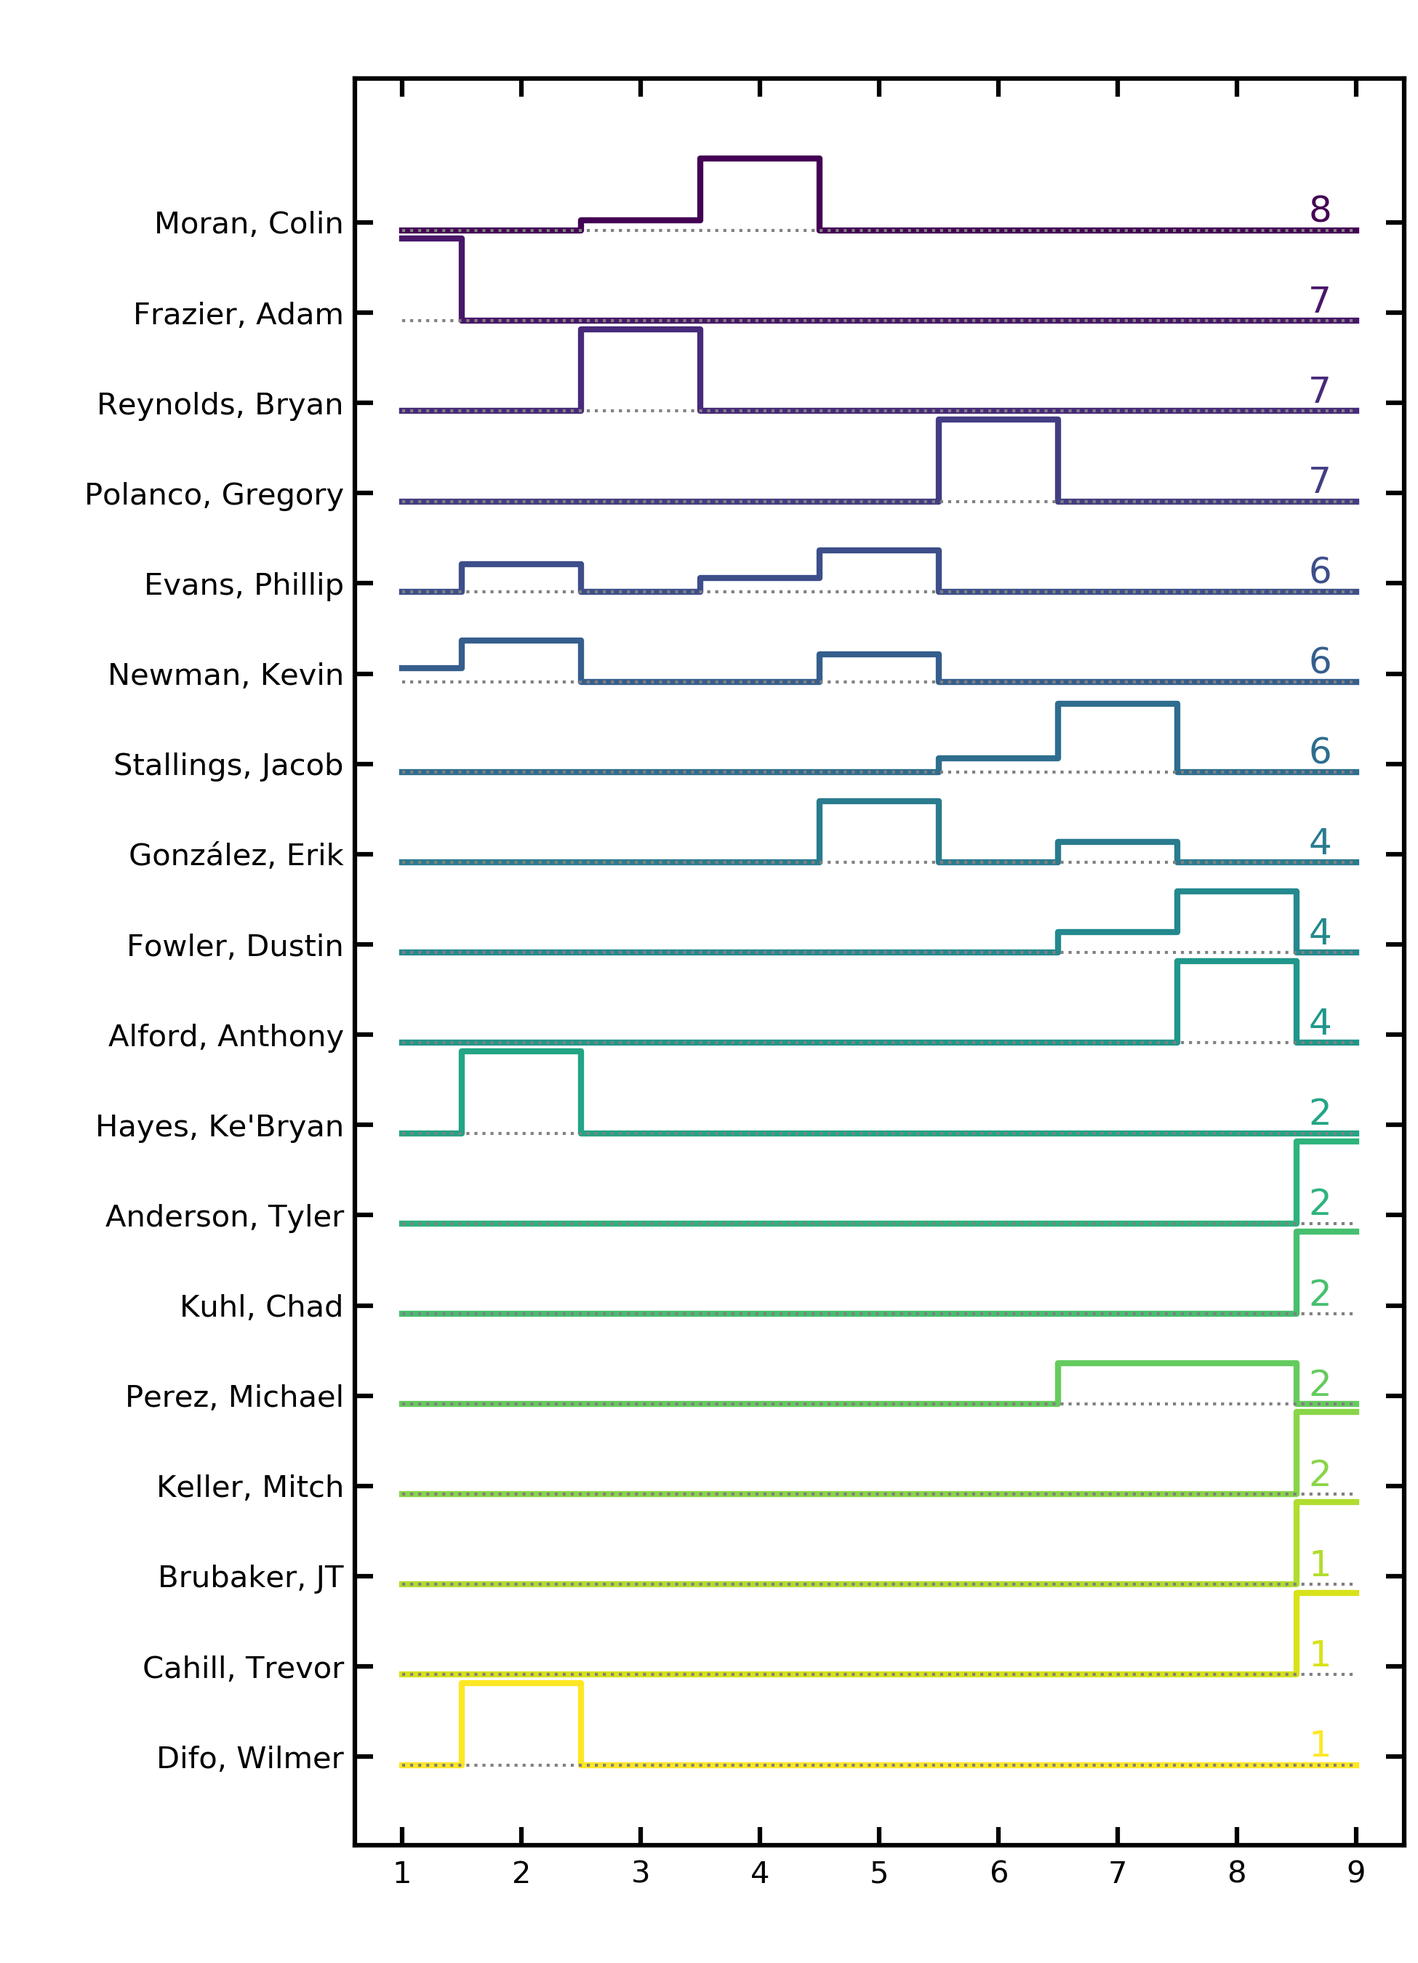
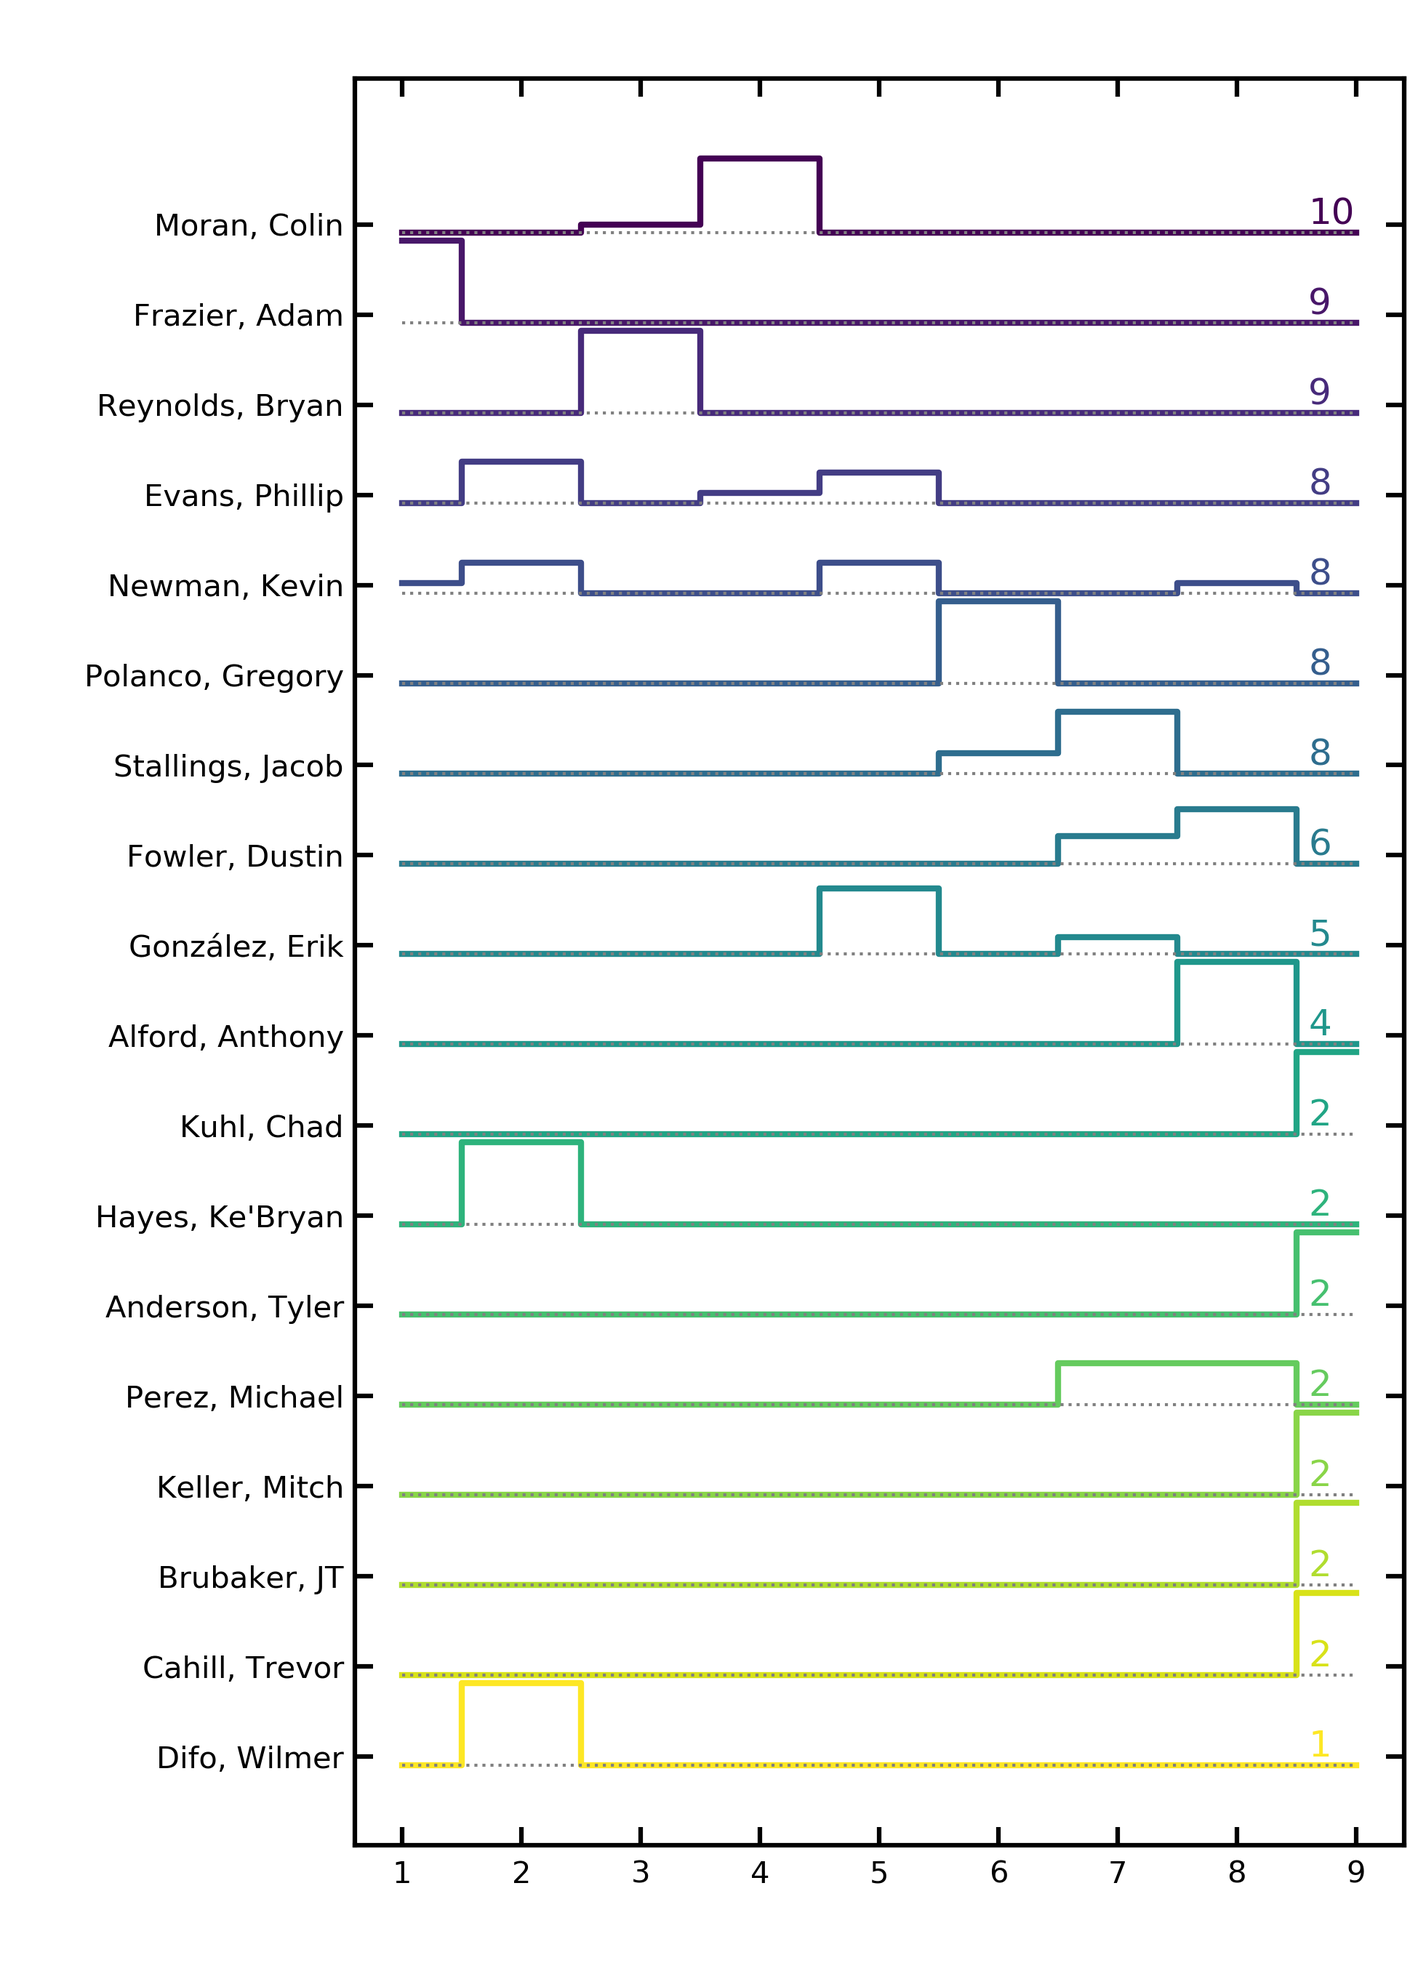
update order lists

diff --git a/Lineups/lineup2021.html b/Lineups/lineup2021.html
@@ -12,36 +12,36 @@
   <p>For each team, what is the "typical" 2021 lineup?</p>
 <table id="customers">
 <tr><th>Team</th><th>1st</th><th>2nd</th><th>3rd</th><th>4th</th><th>5th</th><th>6th</th><th>7th</th><th>8th</th><th>9th</th><th>Similarity</th><th>First Appeared</th></tr>
-<tr><td><a href="figures/2021LAAorder.png">LAA</a></td><td>Fletcher, David</td><td>Ohtani, Shohei</td><td>Trout, Mike</td><td>Rendon, Anthony</td><td>Walsh, Jared</td><td>Upton, Justin</td><td>Iglesias, José</td><td>Suzuki, Kurt</td><td>Fowler, Dexter</td><td>5.44</td><td>3</td></tr>
-<tr><td><a href="figures/2021HOUorder.png">HOU</a></td><td>Altuve, Jose</td><td>Brantley, Michael</td><td>Bregman, Alex</td><td>Tucker, Kyle</td><td>Correa, Carlos</td><td>Alvarez, Yordan</td><td>Gurriel, Yuli</td><td>Straw, Myles</td><td>Maldonado, Martín</td><td>4.56</td><td>1</td></tr>
-<tr><td><a href="figures/2021OAKorder.png">OAK</a></td><td>Canha, Mark</td><td>Olson, Matt</td><td>Lowrie, Jed</td><td>Moreland, Mitch</td><td>Chapman, Matt</td><td>Piscotty, Stephen</td><td>Tom, Ka'ai</td><td>Andrus, Elvis</td><td>Garcia, Aramis</td><td>2.95</td><td>4</td></tr>
-<tr><td><a href="figures/2021TORorder.png">TOR</a></td><td>Semien, Marcus</td><td>Biggio, Cavan</td><td>Bichette, Bo</td><td>Hernández, Teoscar</td><td>Guerrero Jr., Vladimir</td><td>Gurriel Jr., Lourdes</td><td>Grichuk, Randal</td><td>Panik, Joe</td><td>Jansen, Danny</td><td>4.89</td><td>6</td></tr>
-<tr><td><a href="figures/2021ATLorder.png">ATL</a></td><td>Acuña Jr., Ronald</td><td>Albies, Ozzie</td><td>Freeman, Freddie</td><td>Ozuna, Marcell</td><td>d'Arnaud, Travis</td><td>Swanson, Dansby</td><td>Riley, Austin</td><td>Pache, Cristian</td><td>Anderson, Ian</td><td>5.62</td><td>3</td></tr>
-<tr><td><a href="figures/2021MILorder.png">MIL</a></td><td>Wong, Kolten</td><td>Hiura, Keston</td><td>Yelich, Christian</td><td>Shaw, Travis</td><td>Bradley Jr., Jackie</td><td>Cain, Lorenzo</td><td>Narváez, Omar</td><td>Urías, Luis</td><td>Burnes, Corbin</td><td>3.25</td><td>7</td></tr>
-<tr><td><a href="figures/2021STLorder.png">STL</a></td><td>Edman, Tommy</td><td>Goldschmidt, Paul</td><td>Arenado, Nolan</td><td>DeJong, Paul</td><td>O'Neill, Tyler</td><td>Molina, Yadier</td><td>Carlson, Dylan</td><td>Williams, Justin</td><td>Flaherty, Jack</td><td>4.69</td><td>1</td></tr>
-<tr><td><a href="figures/2021CHCorder.png">CHC</a></td><td>Happ, Ian</td><td>Contreras, Willson</td><td>Rizzo, Anthony</td><td>Bryant, Kris</td><td>Pederson, Joc</td><td>Báez, Javier</td><td>Heyward, Jason</td><td>Bote, David</td><td>Hendricks, Kyle</td><td>4.25</td><td>1</td></tr>
-<tr><td><a href="figures/2021ARIorder.png">ARI</a></td><td>Rojas, Josh</td><td>Marte, Ketel</td><td>Walker, Christian</td><td>Peralta, David</td><td>Cabrera, Asdrúbal</td><td>Escobar, Eduardo</td><td>Smith, Pavin</td><td>Vogt, Stephen</td><td>Bumgarner, Madison</td><td>3.67</td><td>1</td></tr>
-<tr><td><a href="figures/2021LADorder.png">LAD</a></td><td>Betts, Mookie</td><td>Seager, Corey</td><td>Turner, Justin</td><td>Bellinger, Cody</td><td>Muncy, Max</td><td>Taylor, Chris</td><td>Lux, Gavin</td><td>Barnes, Austin</td><td>Kershaw, Clayton</td><td>2.78</td><td>1</td></tr>
-<tr><td><a href="figures/2021SForder.png">SF</a></td><td>Slater, Austin</td><td>Yastrzemski, Mike</td><td>Solano, Donovan</td><td>Longoria, Evan</td><td>Ruf, Darin</td><td>Flores, Wilmer</td><td>Posey, Buster</td><td>Crawford, Brandon</td><td>Dubón, Mauricio</td><td>2.25</td><td>2</td></tr>
-<tr><td><a href="figures/2021CLEorder.png">CLE</a></td><td>Luplow, Jordan</td><td>Hernandez, Cesar</td><td>Ramírez, José</td><td>Rosario, Eddie</td><td>Reyes, Franmil</td><td>Naylor, Josh</td><td>Chang, Yu</td><td>Pérez, Roberto</td><td>Giménez, Andrés</td><td>5.57</td><td>1</td></tr>
-<tr><td><a href="figures/2021SEAorder.png">SEA</a></td><td>Haniger, Mitch</td><td>France, Ty</td><td>Seager, Kyle</td><td>White, Evan</td><td>Trammell, Taylor</td><td>Moore, Dylan</td><td>Fraley, Jake</td><td>Torrens, Luis</td><td>Crawford, J.P.</td><td>5.12</td><td>2</td></tr>
-<tr><td><a href="figures/2021MIAorder.png">MIA</a></td><td>Dickerson, Corey</td><td>Marte, Starling</td><td>Aguilar, Jesús</td><td>Cooper, Garrett</td><td>Anderson, Brian</td><td>Chisholm Jr., Jazz</td><td>Berti, Jon</td><td>Wallach, Chad</td><td>López, Pablo</td><td>3.38</td><td>6</td></tr>
+<tr><td><a href="figures/2021LAAorder.png">LAA</a></td><td>Fletcher, David</td><td>Ohtani, Shohei</td><td>Trout, Mike</td><td>Rendon, Anthony</td><td>Walsh, Jared</td><td>Upton, Justin</td><td>Iglesias, José</td><td>Suzuki, Kurt</td><td>Fowler, Dexter</td><td>5.15</td><td>3</td></tr>
+<tr><td><a href="figures/2021HOUorder.png">HOU</a></td><td>Altuve, Jose</td><td>Brantley, Michael</td><td>Bregman, Alex</td><td>Alvarez, Yordan</td><td>Correa, Carlos</td><td>Gurriel, Yuli</td><td>Tucker, Kyle</td><td>Straw, Myles</td><td>Maldonado, Martín</td><td>4.8</td><td>10</td></tr>
+<tr><td><a href="figures/2021OAKorder.png">OAK</a></td><td>Canha, Mark</td><td>Laureano, Ramón</td><td>Lowrie, Jed</td><td>Olson, Matt</td><td>Chapman, Matt</td><td>Piscotty, Stephen</td><td>Brown, Seth</td><td>Andrus, Elvis</td><td>Garcia, Aramis</td><td>2.91</td><td>9</td></tr>
+<tr><td><a href="figures/2021TORorder.png">TOR</a></td><td>Semien, Marcus</td><td>Biggio, Cavan</td><td>Bichette, Bo</td><td>Hernández, Teoscar</td><td>Guerrero Jr., Vladimir</td><td>Gurriel Jr., Lourdes</td><td>Tellez, Rowdy</td><td>Grichuk, Randal</td><td>Jansen, Danny</td><td>4.6</td><td>1</td></tr>
+<tr><td><a href="figures/2021ATLorder.png">ATL</a></td><td>Acuña Jr., Ronald</td><td>Albies, Ozzie</td><td>Freeman, Freddie</td><td>Ozuna, Marcell</td><td>d'Arnaud, Travis</td><td>Swanson, Dansby</td><td>Riley, Austin</td><td>Pache, Cristian</td><td>Anderson, Ian</td><td>5.7</td><td>3</td></tr>
+<tr><td><a href="figures/2021MILorder.png">MIL</a></td><td>Wong, Kolten</td><td>Hiura, Keston</td><td>Yelich, Christian</td><td>García, Avisaíl</td><td>Bradley Jr., Jackie</td><td>Urías, Luis</td><td>Narváez, Omar</td><td>Arcia, Orlando</td><td>Anderson, Brett</td><td>2.85</td><td>4</td></tr>
+<tr><td><a href="figures/2021STLorder.png">STL</a></td><td>Edman, Tommy</td><td>Goldschmidt, Paul</td><td>Arenado, Nolan</td><td>DeJong, Paul</td><td>O'Neill, Tyler</td><td>Molina, Yadier</td><td>Carlson, Dylan</td><td>Williams, Justin</td><td>Flaherty, Jack</td><td>4.3</td><td>1</td></tr>
+<tr><td><a href="figures/2021CHCorder.png">CHC</a></td><td>Happ, Ian</td><td>Contreras, Willson</td><td>Rizzo, Anthony</td><td>Bryant, Kris</td><td>Pederson, Joc</td><td>Báez, Javier</td><td>Heyward, Jason</td><td>Bote, David</td><td>Hendricks, Kyle</td><td>5.1</td><td>1</td></tr>
+<tr><td><a href="figures/2021ARIorder.png">ARI</a></td><td>Rojas, Josh</td><td>Marte, Ketel</td><td>Walker, Christian</td><td>Peralta, David</td><td>Cabrera, Asdrúbal</td><td>Escobar, Eduardo</td><td>Smith, Pavin</td><td>Vogt, Stephen</td><td>Bumgarner, Madison</td><td>3.45</td><td>1</td></tr>
+<tr><td><a href="figures/2021LADorder.png">LAD</a></td><td>Betts, Mookie</td><td>Seager, Corey</td><td>Turner, Justin</td><td>Bellinger, Cody</td><td>Muncy, Max</td><td>Taylor, Chris</td><td>Lux, Gavin</td><td>Barnes, Austin</td><td>Kershaw, Clayton</td><td>2.6</td><td>1</td></tr>
+<tr><td><a href="figures/2021SForder.png">SF</a></td><td>Slater, Austin</td><td>Yastrzemski, Mike</td><td>Solano, Donovan</td><td>Longoria, Evan</td><td>Ruf, Darin</td><td>Flores, Wilmer</td><td>Posey, Buster</td><td>Crawford, Brandon</td><td>Dubón, Mauricio</td><td>2.3</td><td>2</td></tr>
+<tr><td><a href="figures/2021CLEorder.png">CLE</a></td><td>Luplow, Jordan</td><td>Hernandez, Cesar</td><td>Ramírez, José</td><td>Rosario, Eddie</td><td>Reyes, Franmil</td><td>Naylor, Josh</td><td>Chang, Yu</td><td>Pérez, Roberto</td><td>Giménez, Andrés</td><td>5.11</td><td>1</td></tr>
+<tr><td><a href="figures/2021SEAorder.png">SEA</a></td><td>Haniger, Mitch</td><td>France, Ty</td><td>Seager, Kyle</td><td>White, Evan</td><td>Trammell, Taylor</td><td>Moore, Dylan</td><td>Fraley, Jake</td><td>Torrens, Luis</td><td>Crawford, J.P.</td><td>4.78</td><td>2</td></tr>
+<tr><td><a href="figures/2021MIAorder.png">MIA</a></td><td>Dickerson, Corey</td><td>Marte, Starling</td><td>Aguilar, Jesús</td><td>Cooper, Garrett</td><td>Anderson, Brian</td><td>Chisholm Jr., Jazz</td><td>Berti, Jon</td><td>Wallach, Chad</td><td>López, Pablo</td><td>3.22</td><td>6</td></tr>
 <tr><td><a href="figures/2021NYMorder.png">NYM</a></td><td>Nimmo, Brandon</td><td>Lindor, Francisco</td><td>Conforto, Michael</td><td>Alonso, Pete</td><td>Smith, Dominic</td><td>Villar, Jonathan</td><td>McNeil, Jeff</td><td>McCann, James</td><td>Walker, Taijuan</td><td>4.2</td><td>4</td></tr>
-<tr><td><a href="figures/2021WSHorder.png">WSH</a></td><td>Robles, Victor</td><td>Turner, Trea</td><td>Soto, Juan</td><td>Zimmerman, Ryan</td><td>Castro, Starlin</td><td>Pérez, Hernán</td><td>Stevenson, Andrew</td><td>Lucroy, Jonathan</td><td>Scherzer, Max</td><td>4.2</td><td>1</td></tr>
-<tr><td><a href="figures/2021BALorder.png">BAL</a></td><td>Mullins, Cedric</td><td>Mancini, Trey</td><td>Santander, Anthony</td><td>Mountcastle, Ryan</td><td>Ruiz, Rio</td><td>Franco, Maikel</td><td>Galvis, Freddy</td><td>Hays, Austin</td><td>Sisco, Chance</td><td>4.31</td><td>3</td></tr>
-<tr><td><a href="figures/2021SDorder.png">SD</a></td><td>Pham, Tommy</td><td>Tatis Jr., Fernando</td><td>Machado, Manny</td><td>Hosmer, Eric</td><td>Myers, Wil</td><td>Cronenworth, Jake</td><td>Profar, Jurickson</td><td>Caratini, Victor</td><td>Darvish, Yu</td><td>2.67</td><td>1</td></tr>
-<tr><td><a href="figures/2021PHIorder.png">PHI</a></td><td>McCutchen, Andrew</td><td>Hoskins, Rhys</td><td>Harper, Bryce</td><td>Realmuto, J.T.</td><td>Bohm, Alec</td><td>Gregorius, Didi</td><td>Segura, Jean</td><td>Haseley, Adam</td><td>Nola, Aaron</td><td>4.94</td><td>1</td></tr>
-<tr><td><a href="figures/2021PITorder.png">PIT</a></td><td>Frazier, Adam</td><td>Newman, Kevin</td><td>Reynolds, Bryan</td><td>Moran, Colin</td><td>Evans, Phillip</td><td>Polanco, Gregory</td><td>Stallings, Jacob</td><td>Fowler, Dustin</td><td>Anderson, Tyler</td><td>4.12</td><td>7</td></tr>
-<tr><td><a href="figures/2021TEXorder.png">TEX</a></td><td>Kiner-Falefa, Isiah</td><td>Dahl, David</td><td>Gallo, Joey</td><td>Lowe, Nate</td><td>Solak, Nick</td><td>Guzmán, Ronald</td><td>Holt, Brock</td><td>Heim, Jonah</td><td>Taveras, Leody</td><td>3.94</td><td>3</td></tr>
-<tr><td><a href="figures/2021TBorder.png">TB</a></td><td>Tsutsugo, Yoshi</td><td>Meadows, Austin</td><td>Arozarena, Randy</td><td>Lowe, Brandon</td><td>Díaz, Yandy</td><td>Wendle, Joey</td><td>Adames, Willy</td><td>Phillips, Brett</td><td>Zunino, Mike</td><td>3.69</td><td>7</td></tr>
-<tr><td><a href="figures/2021BOSorder.png">BOS</a></td><td>Hernández, Enrique</td><td>Verdugo, Alex</td><td>Martinez, J.D.</td><td>Bogaerts, Xander</td><td>Devers, Rafael</td><td>Renfroe, Hunter</td><td>Gonzalez, Marwin</td><td>Vázquez, Christian</td><td>Dalbec, Bobby</td><td>3.31</td><td>1</td></tr>
-<tr><td><a href="figures/2021CINorder.png">CIN</a></td><td>Naquin, Tyler</td><td>Castellanos, Nick</td><td>Votto, Joey</td><td>Suárez, Eugenio</td><td>Moustakas, Mike</td><td>Senzel, Nick</td><td>India, Jonathan</td><td>Barnhart, Tucker</td><td>Hoffman, Jeff</td><td>5.25</td><td>8</td></tr>
-<tr><td><a href="figures/2021COLorder.png">COL</a></td><td>Tapia, Raimel</td><td>Hampson, Garrett</td><td>Story, Trevor</td><td>Blackmon, Charlie</td><td>Cron, C.J.</td><td>McMahon, Ryan</td><td>Fuentes, Josh</td><td>Nuñez, Dom</td><td>Gray, Jon</td><td>3.11</td><td>3</td></tr>
-<tr><td><a href="figures/2021KCorder.png">KC</a></td><td>Merrifield, Whit</td><td>Benintendi, Andrew</td><td>Santana, Carlos</td><td>Perez, Salvador</td><td>Soler, Jorge</td><td>Dozier, Hunter</td><td>Isbel, Kyle</td><td>Taylor, Michael A.</td><td>Lopez, Nicky</td><td>6.25</td><td>1</td></tr>
-<tr><td><a href="figures/2021DETorder.png">DET</a></td><td>Grossman, Robbie</td><td>Candelario, Jeimer</td><td>Castro, Willi</td><td>Cabrera, Miguel</td><td>Schoop, Jonathan</td><td>Mazara, Nomar</td><td>Ramos, Wilson</td><td>Goodrum, Niko</td><td>Jones, JaCoby</td><td>2.12</td><td>2</td></tr>
-<tr><td><a href="figures/2021MINorder.png">MIN</a></td><td>Arraez, Luis</td><td>Polanco, Jorge</td><td>Buxton, Byron</td><td>Kepler, Max</td><td>Sanó, Miguel</td><td>Cave, Jake</td><td>Garver, Mitch</td><td>Simmons, Andrelton</td><td>Pineda, Michael</td><td>2.31</td><td>3</td></tr>
-<tr><td><a href="figures/2021CWSorder.png">CWS</a></td><td>Anderson, Tim</td><td>Eaton, Adam</td><td>Abreu, José</td><td>Moncada, Yoán</td><td>Mercedes, Yermín</td><td>Grandal, Yasmani</td><td>Robert, Luis</td><td>Hamilton, Billy</td><td>Madrigal, Nick</td><td>2.94</td><td>4</td></tr>
-<tr><td><a href="figures/2021NYYorder.png">NYY</a></td><td>LeMahieu, DJ</td><td>Judge, Aaron</td><td>Hicks, Aaron</td><td>Stanton, Giancarlo</td><td>Torres, Gleyber</td><td>Bruce, Jay</td><td>Sánchez, Gary</td><td>Urshela, Gio</td><td>Frazier, Clint</td><td>3.81</td><td>2</td></tr>
+<tr><td><a href="figures/2021WSHorder.png">WSH</a></td><td>Robles, Victor</td><td>Turner, Trea</td><td>Soto, Juan</td><td>Zimmerman, Ryan</td><td>Castro, Starlin</td><td>Pérez, Hernán</td><td>Stevenson, Andrew</td><td>Lucroy, Jonathan</td><td>Scherzer, Max</td><td>3.86</td><td>1</td></tr>
+<tr><td><a href="figures/2021BALorder.png">BAL</a></td><td>Mullins, Cedric</td><td>Mancini, Trey</td><td>Santander, Anthony</td><td>Mountcastle, Ryan</td><td>Ruiz, Rio</td><td>Franco, Maikel</td><td>Galvis, Freddy</td><td>Severino, Pedro</td><td>Sisco, Chance</td><td>4.33</td><td>5</td></tr>
+<tr><td><a href="figures/2021SDorder.png">SD</a></td><td>Grisham, Trent</td><td>Profar, Jurickson</td><td>Machado, Manny</td><td>Hosmer, Eric</td><td>Myers, Wil</td><td>Cronenworth, Jake</td><td>Pham, Tommy</td><td>Caratini, Victor</td><td>Kim, Ha-Seong</td><td>3.0</td><td>10</td></tr>
+<tr><td><a href="figures/2021PHIorder.png">PHI</a></td><td>McCutchen, Andrew</td><td>Hoskins, Rhys</td><td>Harper, Bryce</td><td>Realmuto, J.T.</td><td>Bohm, Alec</td><td>Gregorius, Didi</td><td>Segura, Jean</td><td>Haseley, Adam</td><td>Nola, Aaron</td><td>4.89</td><td>1</td></tr>
+<tr><td><a href="figures/2021PITorder.png">PIT</a></td><td>Frazier, Adam</td><td>Evans, Phillip</td><td>Reynolds, Bryan</td><td>Moran, Colin</td><td>González, Erik</td><td>Polanco, Gregory</td><td>Stallings, Jacob</td><td>Fowler, Dustin</td><td>Brubaker, JT</td><td>4.3</td><td>4</td></tr>
+<tr><td><a href="figures/2021TEXorder.png">TEX</a></td><td>Kiner-Falefa, Isiah</td><td>Dahl, David</td><td>Gallo, Joey</td><td>Lowe, Nate</td><td>Solak, Nick</td><td>Guzmán, Ronald</td><td>Holt, Brock</td><td>Heim, Jonah</td><td>Taveras, Leody</td><td>3.8</td><td>3</td></tr>
+<tr><td><a href="figures/2021TBorder.png">TB</a></td><td>Tsutsugo, Yoshi</td><td>Meadows, Austin</td><td>Arozarena, Randy</td><td>Lowe, Brandon</td><td>Díaz, Yandy</td><td>Wendle, Joey</td><td>Adames, Willy</td><td>Phillips, Brett</td><td>Zunino, Mike</td><td>3.45</td><td>7</td></tr>
+<tr><td><a href="figures/2021BOSorder.png">BOS</a></td><td>Hernández, Enrique</td><td>Verdugo, Alex</td><td>Martinez, J.D.</td><td>Bogaerts, Xander</td><td>Devers, Rafael</td><td>Vázquez, Christian</td><td>Gonzalez, Marwin</td><td>Dalbec, Bobby</td><td>Cordero, Franchy</td><td>3.78</td><td>9</td></tr>
+<tr><td><a href="figures/2021CINorder.png">CIN</a></td><td>Naquin, Tyler</td><td>Castellanos, Nick</td><td>Votto, Joey</td><td>Suárez, Eugenio</td><td>Moustakas, Mike</td><td>Senzel, Nick</td><td>India, Jonathan</td><td>Barnhart, Tucker</td><td>De León, José</td><td>5.5</td><td>4</td></tr>
+<tr><td><a href="figures/2021COLorder.png">COL</a></td><td>Tapia, Raimel</td><td>Hampson, Garrett</td><td>Story, Trevor</td><td>Blackmon, Charlie</td><td>Cron, C.J.</td><td>McMahon, Ryan</td><td>Hilliard, Sam</td><td>Nuñez, Dom</td><td>Márquez, Germán</td><td>3.45</td><td>5</td></tr>
+<tr><td><a href="figures/2021KCorder.png">KC</a></td><td>Merrifield, Whit</td><td>Benintendi, Andrew</td><td>Santana, Carlos</td><td>Perez, Salvador</td><td>Soler, Jorge</td><td>Dozier, Hunter</td><td>Isbel, Kyle</td><td>Taylor, Michael A.</td><td>Lopez, Nicky</td><td>6.0</td><td>1</td></tr>
+<tr><td><a href="figures/2021DETorder.png">DET</a></td><td>Grossman, Robbie</td><td>Candelario, Jeimer</td><td>Castro, Willi</td><td>Cabrera, Miguel</td><td>Schoop, Jonathan</td><td>Mazara, Nomar</td><td>Ramos, Wilson</td><td>Goodrum, Niko</td><td>Jones, JaCoby</td><td>2.0</td><td>2</td></tr>
+<tr><td><a href="figures/2021MINorder.png">MIN</a></td><td>Arraez, Luis</td><td>Polanco, Jorge</td><td>Cruz, Nelson</td><td>Kepler, Max</td><td>Rooker, Brent</td><td>Cave, Jake</td><td>Sanó, Miguel</td><td>Astudillo, Willians</td><td>Jeffers, Ryan</td><td>2.22</td><td>5</td></tr>
+<tr><td><a href="figures/2021CWSorder.png">CWS</a></td><td>Eaton, Adam</td><td>Robert, Luis</td><td>Abreu, José</td><td>Moncada, Yoán</td><td>Mercedes, Yermín</td><td>Grandal, Yasmani</td><td>Williams, Nick</td><td>Madrigal, Nick</td><td>Mendick, Danny</td><td>3.25</td><td>8</td></tr>
+<tr><td><a href="figures/2021NYYorder.png">NYY</a></td><td>LeMahieu, DJ</td><td>Judge, Aaron</td><td>Hicks, Aaron</td><td>Stanton, Giancarlo</td><td>Torres, Gleyber</td><td>Bruce, Jay</td><td>Sánchez, Gary</td><td>Urshela, Gio</td><td>Frazier, Clint</td><td>3.75</td><td>2</td></tr>
 </table>
 </body>
 </html>
